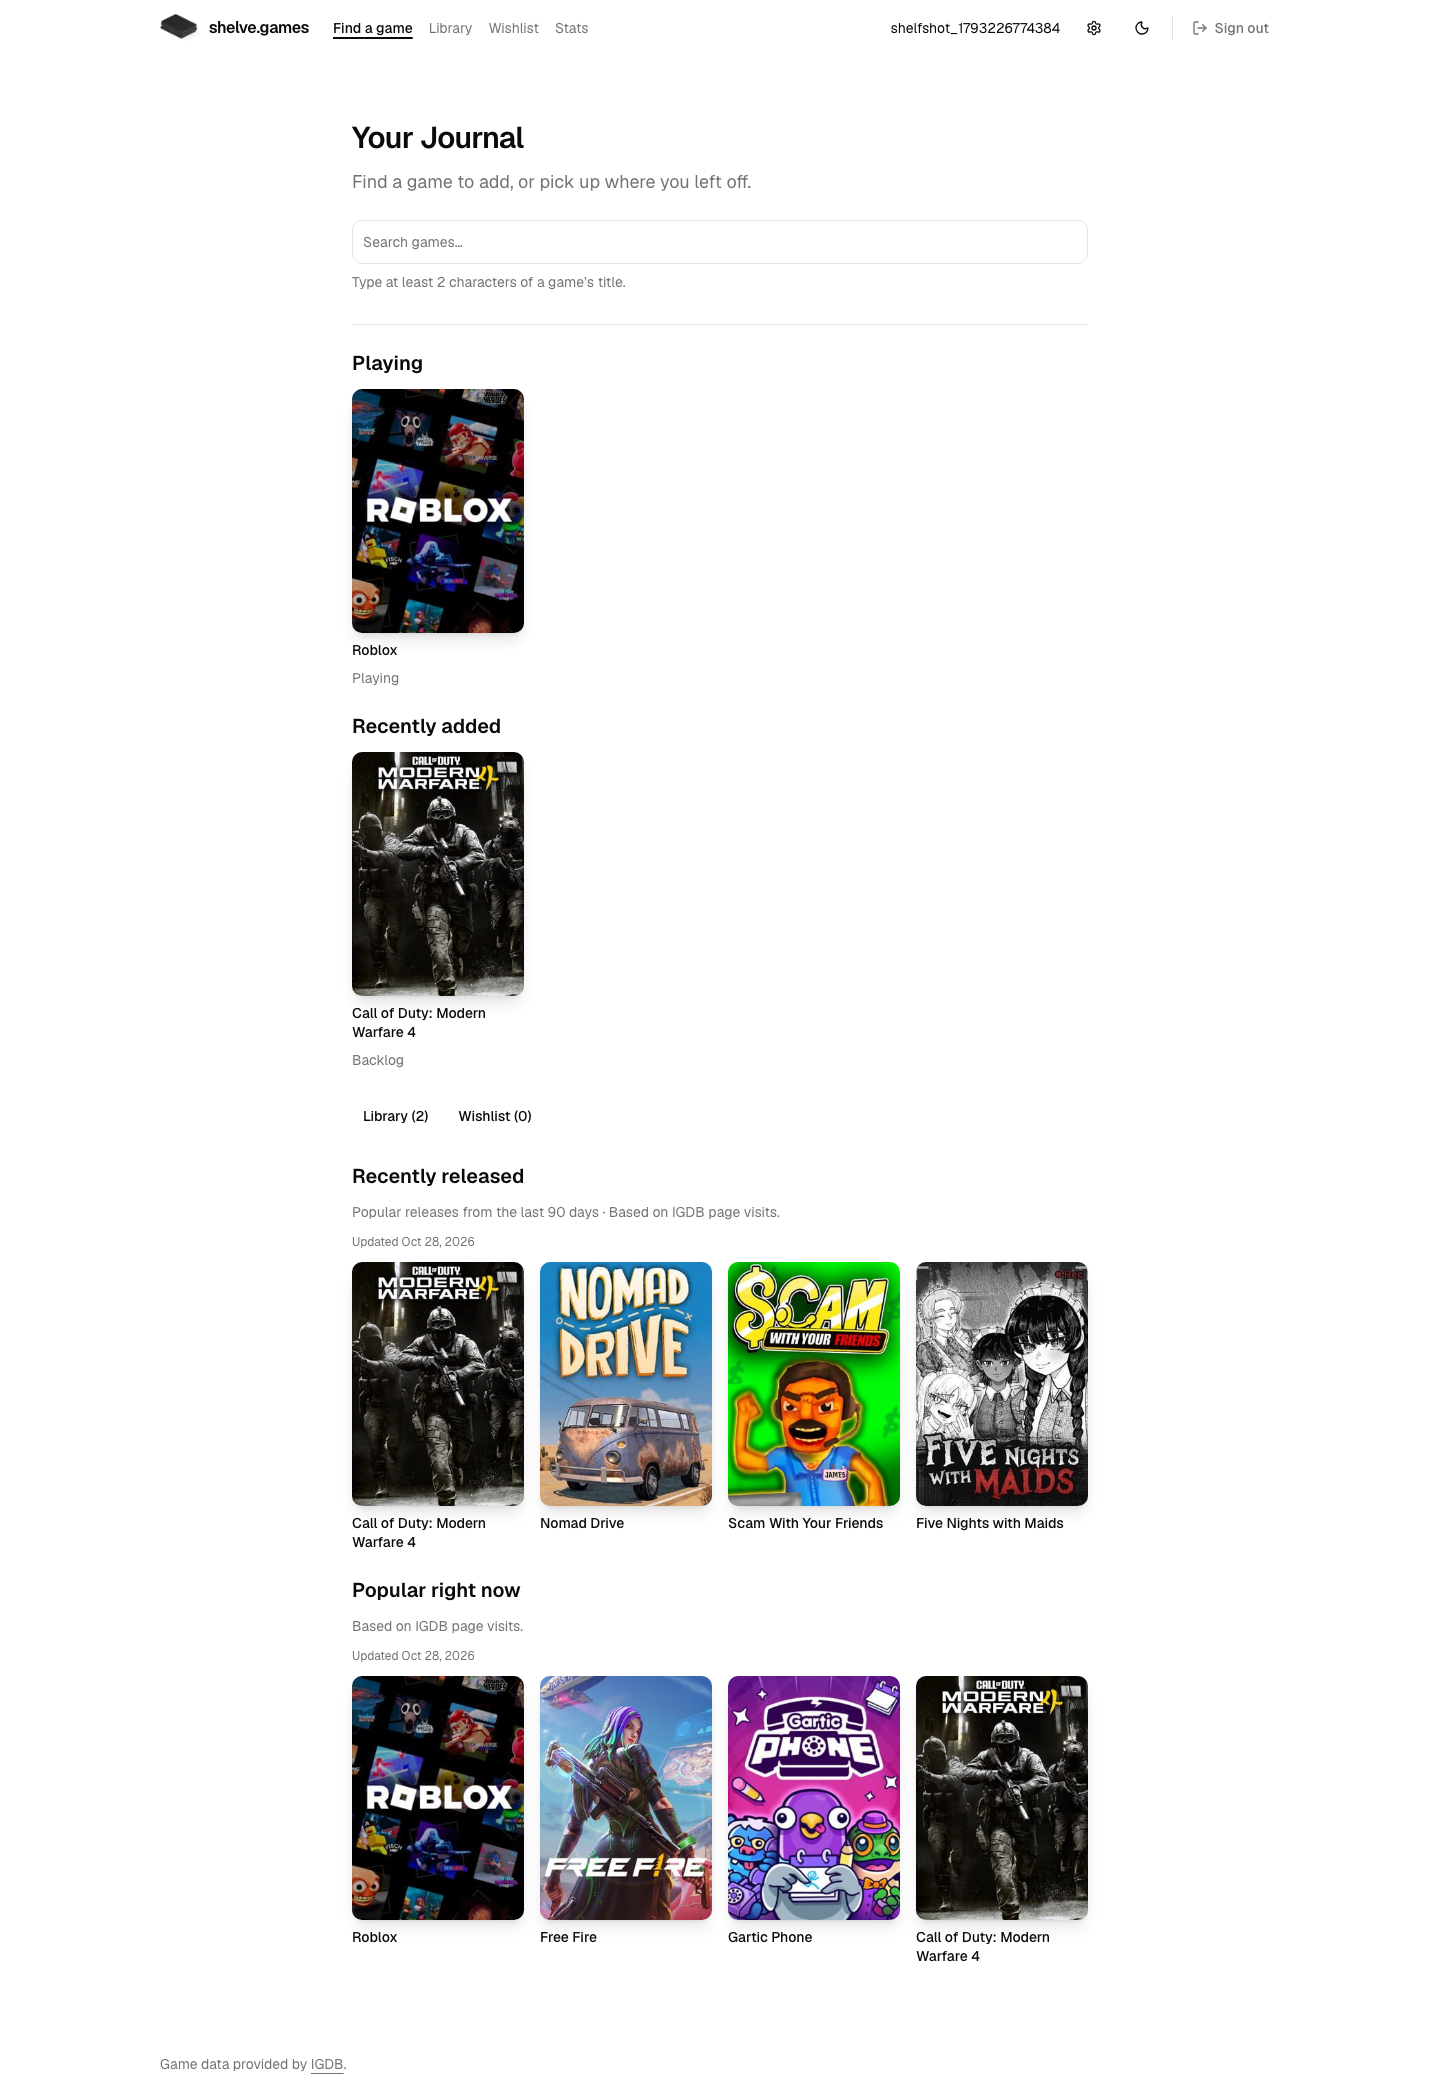
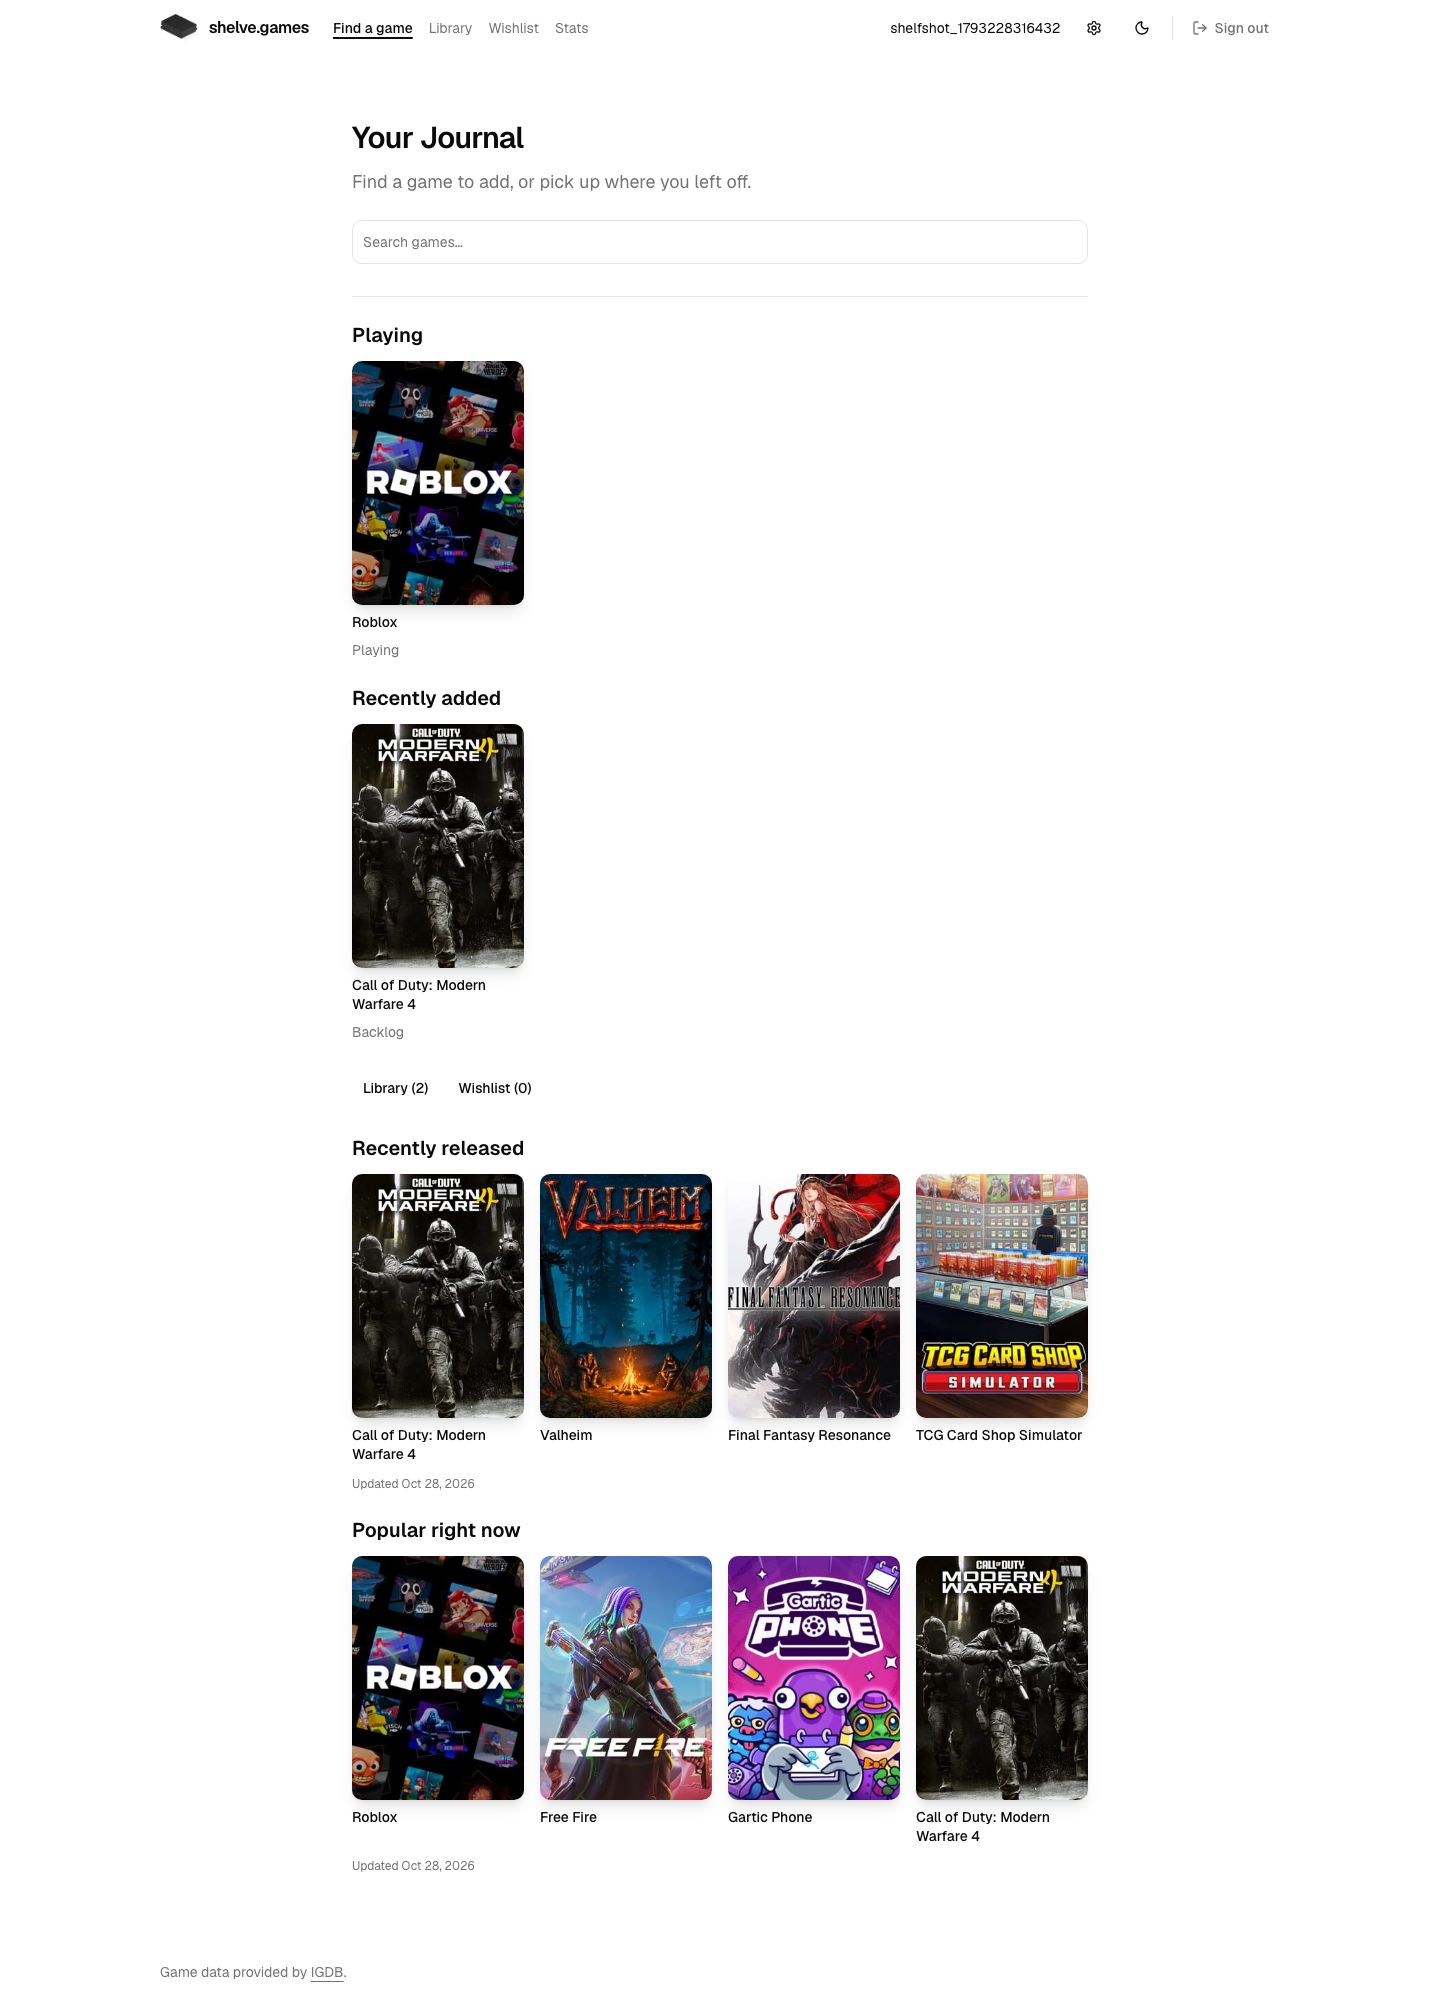
Refresh screenshots for quality-filtered discovery shelves

diff --git a/docs/pr-screenshots/discovery/README.md b/docs/pr-screenshots/discovery/README.md
@@ -1,17 +1,18 @@
 # Home discovery shelves
 
-Captured in Chromium from the local Next.js app with the repository's isolated
+Captured in Chromium from the production Next.js build with the repository's isolated
 PGlite database. No production database or real user account data is shown.
 Discovery snapshots use a read-only IGDB Visits/metadata sample captured on
-October 28, 2026; they are examples of provider data, not editorial endorsements.
+October 28, 2026; Recently released applies the approved review quality floor and two-indie reservation.
 
 - `guest-before-desktop.png`: Home before any discovery snapshot is seeded.
 - `guest-desktop.png`: guest Home at 1440px with both four-game shelves.
 - `guest-mobile.png`: guest Home at 390px with two-column shelves, dark mode.
 - `guest-mobile-light.png`: the same mobile layout in light mode.
 
-Screenshots disable animations. Automated browser tests separately cover the
-signed-in placement, empty Journal, duplicate cover navigation, and failure states.
 - `journal-desktop-light.png` and `journal-mobile-light.png`: a synthetic test
   account with Playing and Backlog entries, confirming personal shelves and
   Library/Wishlist navigation appear before discovery.
+
+Screenshots disable animations. Automated browser tests also cover empty Journals,
+duplicate cover navigation, failure states, and dates positioned below the tiles.
